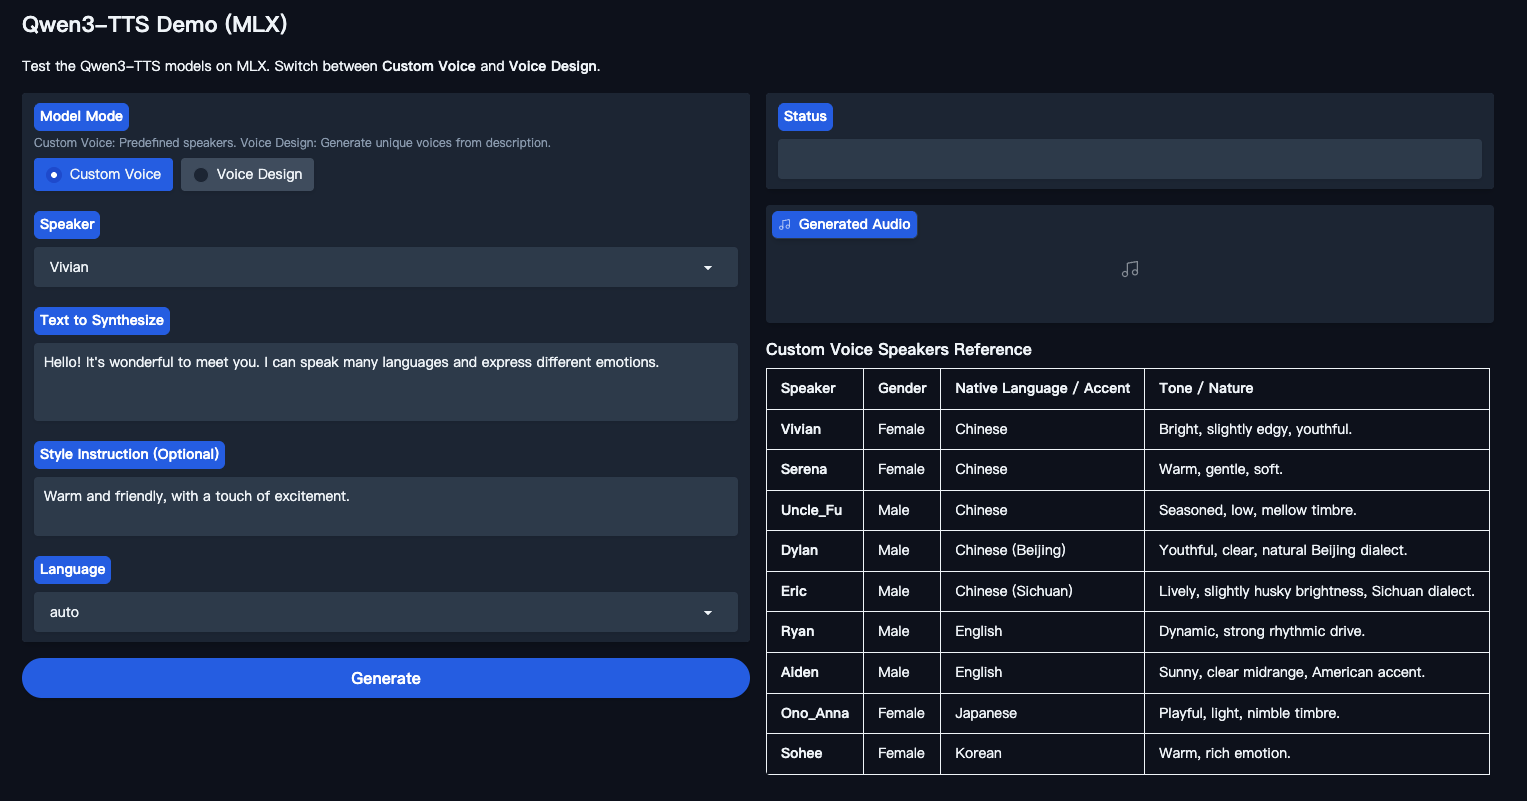
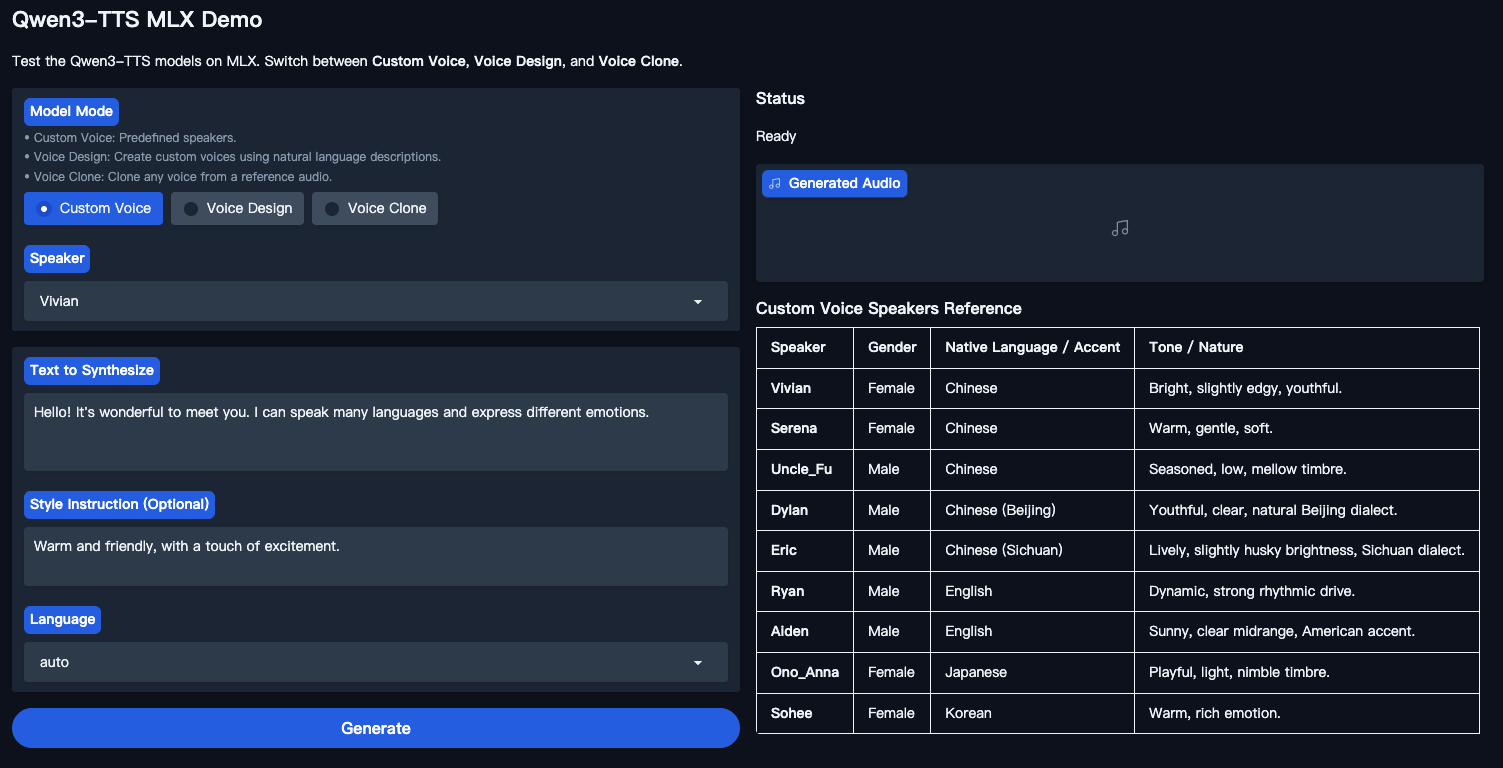
voice clone support

diff --git a/app.py b/app.py
@@ -5,6 +5,7 @@ import numpy as np
 # --- Configuration ---
 MODEL_PATH_CV = "mlx-community/Qwen3-TTS-12Hz-1.7B-CustomVoice-8bit"
 MODEL_PATH_VD = "mlx-community/Qwen3-TTS-12Hz-1.7B-VoiceDesign-8bit"
+MODEL_PATH_BASE = "mlx-community/Qwen3-TTS-12Hz-1.7B-Base-8bit"
 
 SUPPORTED_SPEAKERS = [
     "Vivian", "Serena", "Uncle_Fu", "Dylan", "Eric", 
@@ -34,13 +35,14 @@ SPEAKER_INFO_MD = """
 # --- Constants for Defaults ---
 DEFAULT_TEXT_CV = "Hello! It's wonderful to meet you. I can speak many languages and express different emotions."
 DEFAULT_TEXT_VD = "Hello. It's wonderful to meet you. This voice was created entirely from a text description."
+DEFAULT_TEXT_CLONE = "Hello. It's wonderful to meet you. This voice is a clone of the reference audio you provided."
 
 DEFAULT_INSTRUCT_CV = "Warm and friendly, with a touch of excitement."
 DEFAULT_INSTRUCT_VD = "A clear and elegant female voice with a gentle, sophisticated tone, speaking at a moderate pace with a touch of warmth."
 
 # --- Global State ---
 current_model = None
-current_model_type = None # "Custom Voice" or "Voice Design"
+current_model_type = None # "Custom Voice", "Voice Design", or "Voice Clone"
 
 # --- Logic ---
 
@@ -55,15 +57,17 @@ def load_model_if_needed(target_type):
     
     if target_type == "Custom Voice":
         current_model = load_model(MODEL_PATH_CV)
-    else:
+    elif target_type == "Voice Design":
         current_model = load_model(MODEL_PATH_VD)
+    else: # Voice Clone
+        current_model = load_model(MODEL_PATH_BASE)
         
     current_model_type = target_type
     return current_model, f"Loaded {target_type} model."
 
-def generate(mode, text, speaker, instruct, language, progress=gr.Progress()):
+def generate(mode, text, speaker, instruct, ref_audio, ref_text, language, progress=gr.Progress()):
     if not text:
-        yield None, "Please enter text to synthesize."
+        yield None, "<span style='color: red'>Please enter text to synthesize.</span>"
         return
 
     # Use progress bar and yield initial status
@@ -73,7 +77,7 @@ def generate(mode, text, speaker, instruct, language, progress=gr.Progress()):
     try:
         model, msg = load_model_if_needed(mode)
     except Exception as e:
-        yield None, f"Error loading model: {str(e)}"
+        yield None, f"<span style='color: red'>Error loading model: {str(e)}</span>"
         return
 
     progress(0.5, desc="Processing ...")
@@ -84,7 +88,7 @@ def generate(mode, text, speaker, instruct, language, progress=gr.Progress()):
 
         if mode == "Custom Voice":
             if speaker not in SUPPORTED_SPEAKERS:
-                yield None, f"Invalid speaker: {speaker}"
+                yield None, f"<span style='color: red'>Invalid speaker: {speaker}</span>"
                 return
                 
             results = list(model.generate_custom_voice(
@@ -93,15 +97,29 @@ def generate(mode, text, speaker, instruct, language, progress=gr.Progress()):
                 language=lang_arg,
                 instruct=instruct
             ))
-        else: # Voice Design
+        elif mode == "Voice Design":
             results = list(model.generate_voice_design(
                 text=text,
                 instruct=instruct,
                 language=lang_arg
             ))
+        else: # Voice Clone
+            if not ref_audio:
+                 yield None, "<span style='color: red'>Reference audio is required for Voice Clone.</span>"
+                 return
+                 
+            # If ref_text is empty, treat as None
+            ref_text_arg = ref_text if ref_text and ref_text.strip() else None
+
+            results = list(model.generate(
+                text=text,
+                ref_audio=ref_audio, # Gradio passes the filepath
+                ref_text=ref_text_arg,
+                language=lang_arg
+            ))
             
         if not results:
-            yield None, "No audio generated."
+            yield None, "<span style='color: red'>No audio generated.</span>"
             return
             
         progress(0.9, desc="Finalizing Audio...")
@@ -117,7 +135,7 @@ def generate(mode, text, speaker, instruct, language, progress=gr.Progress()):
     except Exception as e:
         import traceback
         traceback.print_exc()
-        yield None, f"Error during generation: {str(e)}"
+        yield None, f"<span style='color: red'>Error during generation: {str(e)}</span>"
 
 # --- UI ---
 theme = gr.themes.Soft(
@@ -142,17 +160,17 @@ theme = gr.themes.Soft(
     input_background_fill="#F1F5F9",
 )
 
-with gr.Blocks(theme=theme, title="Qwen3-TTS Demo") as demo:
-    gr.Markdown("## Qwen3-TTS Demo (MLX)")
-    gr.Markdown("Test the Qwen3-TTS models on MLX. Switch between **Custom Voice** and **Voice Design**.")
+with gr.Blocks(theme=theme, title="Qwen3-TTS MLX Demo") as demo:
+    gr.Markdown("## Qwen3-TTS MLX Demo")
+    gr.Markdown("Test the Qwen3-TTS models on MLX. Switch between **Custom Voice**, **Voice Design**, and **Voice Clone**.")
     
     with gr.Row():
         with gr.Column():
             mode = gr.Radio(
-                choices=["Custom Voice", "Voice Design"], 
+                choices=["Custom Voice", "Voice Design", "Voice Clone"], 
                 value="Custom Voice", 
                 label="Model Mode",
-                info="Custom Voice: Predefined speakers. Voice Design: Generate unique voices from description."
+                info="• Custom Voice: Predefined speakers.\n• Voice Design: Create custom voices using natural language descriptions.\n• Voice Clone: Clone any voice from a reference audio."
             )
             
             speaker = gr.Dropdown(
@@ -163,38 +181,68 @@ with gr.Blocks(theme=theme, title="Qwen3-TTS Demo") as demo:
                 visible=True
             )
             
+            # Voice Clone Inputs
+            ref_audio = gr.Audio(
+                label="Reference Audio", 
+                type="filepath", 
+                visible=False
+            )
+            
+            ref_text = gr.Textbox(
+                label="Reference Text (Optional)", 
+                placeholder="Transcript of the reference audio to improve cloning quality...", 
+                visible=False
+            )
+            
             # Instruction label logic
             def update_visibility(selected_mode, current_text, current_instruct):
                 is_custom = (selected_mode == "Custom Voice")
+                is_design = (selected_mode == "Voice Design")
+                is_clone = (selected_mode == "Voice Clone")
+                
                 speaker_update = gr.update(visible=is_custom)
                 info_update = gr.update(visible=is_custom)
                 
-                # Determine new text value (only if it matches one of the defaults)
-                new_text = current_text
-                if current_text == DEFAULT_TEXT_CV or current_text == DEFAULT_TEXT_VD:
-                    new_text = DEFAULT_TEXT_CV if is_custom else DEFAULT_TEXT_VD
+                # Clone inputs visibility
+                ref_audio_update = gr.update(visible=is_clone)
+                ref_text_update = gr.update(visible=is_clone)
                 
-                # Determine new instruct value (only if it matches one of the defaults)
+                # Determine new text value 
+                new_text = current_text
+                if current_text in [DEFAULT_TEXT_CV, DEFAULT_TEXT_VD, DEFAULT_TEXT_CLONE]:
+                    if is_custom: new_text = DEFAULT_TEXT_CV
+                    elif is_design: new_text = DEFAULT_TEXT_VD
+                    elif is_clone: new_text = DEFAULT_TEXT_CLONE
+                
+                # Determine new instruct value and visibility
+                # Instruct is hidden in Clone mode
                 new_instruct = current_instruct
-                if current_instruct == DEFAULT_INSTRUCT_CV or current_instruct == DEFAULT_INSTRUCT_VD:
-                     new_instruct = DEFAULT_INSTRUCT_CV if is_custom else DEFAULT_INSTRUCT_VD
+                instruct_vis = not is_clone
+                
+                if current_instruct in [DEFAULT_INSTRUCT_CV, DEFAULT_INSTRUCT_VD]:
+                     if is_custom: new_instruct = DEFAULT_INSTRUCT_CV
+                     elif is_design: new_instruct = DEFAULT_INSTRUCT_VD
 
                 if is_custom:
                     instruct_update = gr.update(
                         label="Style Instruction (Optional)", 
                         placeholder="e.g., 'Happy and excited', 'Sad', 'Whispering'",
-                        value=new_instruct
+                        value=new_instruct,
+                        visible=True
                     )
-                    text_update = gr.update(value=new_text)
-                else:
+                elif is_design:
                     instruct_update = gr.update(
                         label="Voice Description (Character/Timbre)", 
                         placeholder="e.g., 'A deep, resonant male voice, speaking slowly and with authority.'",
-                        value=new_instruct
+                        value=new_instruct,
+                        visible=True
                     )
-                    text_update = gr.update(value=new_text)
+                else: # Clone
+                    instruct_update = gr.update(visible=False)
+
+                text_update = gr.update(value=new_text)
                 
-                return speaker_update, instruct_update, info_update, text_update
+                return speaker_update, instruct_update, info_update, text_update, ref_audio_update, ref_text_update
 
             text = gr.TextArea(
                 label="Text to Synthesize", 
@@ -219,15 +267,20 @@ with gr.Blocks(theme=theme, title="Qwen3-TTS Demo") as demo:
             btn = gr.Button("Generate", variant="primary")
             
         with gr.Column():
-            status = gr.Textbox(label="Status", interactive=False)
+            gr.Markdown("### Status")
+            status = gr.Markdown(value="Ready")
             audio_out = gr.Audio(label="Generated Audio", type="numpy", interactive=False)
             speaker_info_md = gr.Markdown(SPEAKER_INFO_MD, visible=True)
 
-    mode.change(fn=update_visibility, inputs=[mode, text, instruct], outputs=[speaker, instruct, speaker_info_md, text])
+    mode.change(
+        fn=update_visibility, 
+        inputs=[mode, text, instruct], 
+        outputs=[speaker, instruct, speaker_info_md, text, ref_audio, ref_text]
+    )
     
     btn.click(
         fn=generate, 
-        inputs=[mode, text, speaker, instruct, language], 
+        inputs=[mode, text, speaker, instruct, ref_audio, ref_text, language], 
         outputs=[audio_out, status]
     )
 

diff --git a/README.md b/README.md
@@ -9,9 +9,10 @@ This project provides an interactive web interface (Gradio) for experimenting wi
 ## Features
 
 *   **Apple Silicon Optimized:** Leveraging `mlx` for efficient inference on M-series chips (M1/M2/M3/M4).
-*   **Dual Modes:**
+*   **3 Modes:**
     *   **Custom Voice:** Select from 9 high-quality, predefined speakers (English, Chinese, Japanese, Korean).
-    *   **Voice Design:** Zero-shot generation creating unique voices from natural language descriptions.
+    *   **Voice Design:** Create custom voices using natural language descriptions.
+    *   **Voice Clone:** Clone any voice from a reference audio.
 *   **Interactive Interface:** web interface built with Gradio.
 *   **Multilingual:** Supports generation in English, Chinese, Japanese, Korean, German, French, Spanish, Italian, Portuguese, and Russian.
 
@@ -53,11 +54,14 @@ Before running the app, you need to download the quantized models using the Hugg
     # Download Custom Voice Model (Predefined Speakers)
     hf download mlx-community/Qwen3-TTS-12Hz-1.7B-CustomVoice-8bit
 
-    # Download Voice Design Model (Zero-shot)
+    # Download Voice Design Model
     hf download mlx-community/Qwen3-TTS-12Hz-1.7B-VoiceDesign-8bit
+    
+    # Download Voice Clone Model (Base)
+    hf download mlx-community/Qwen3-TTS-12Hz-1.7B-Base-8bit
     ```
 
-    *Note: If you wish to use different model variants (e.g. 0.6B, 4-bit or full precision), download them similarly and update the `MODEL_PATH_CV` and `MODEL_PATH_VD` variables in `app.py`.*
+    *Note: If you wish to use different model variants (e.g. 0.6B, 4-bit or full precision), download them similarly and update the `MODEL_PATH_CV`, `MODEL_PATH_VD`, and `MODEL_PATH_BASE` variables in `app.py`.*
 
 ## Usage
 
@@ -68,15 +72,18 @@ python app.py
 ```
 
 *   Open the local URL (typically `http://127.0.0.1:7860`).
-*   Switch between **Custom Voice** and **Voice Design**.
+*   Switch between **Custom Voice**, **Voice Design**, and **Voice Clone**.
 *   View speaker details, input text, and generate audio.
 
 
-## Citations
+## Acknowledgements
 
 This project builds upon the work of the Qwen Team and the MLX Audio library.
 
-**Qwen3-TTS:**
+*   **[Qwen3-TTS](https://github.com/QwenLM/Qwen3-TTS)**
+*   **[MLX Audio](https://github.com/Blaizzy/mlx-audio):**
+
+
 ```bibtex
 @article{Qwen3-TTS,
   title={Qwen3-TTS Technical Report},
@@ -86,7 +93,6 @@ This project builds upon the work of the Qwen Team and the MLX Audio library.
 }
 ```
 
-**MLX Audio:**
 ```bibtex
 @misc{mlx-audio,
   author = {Canuma, Prince},
